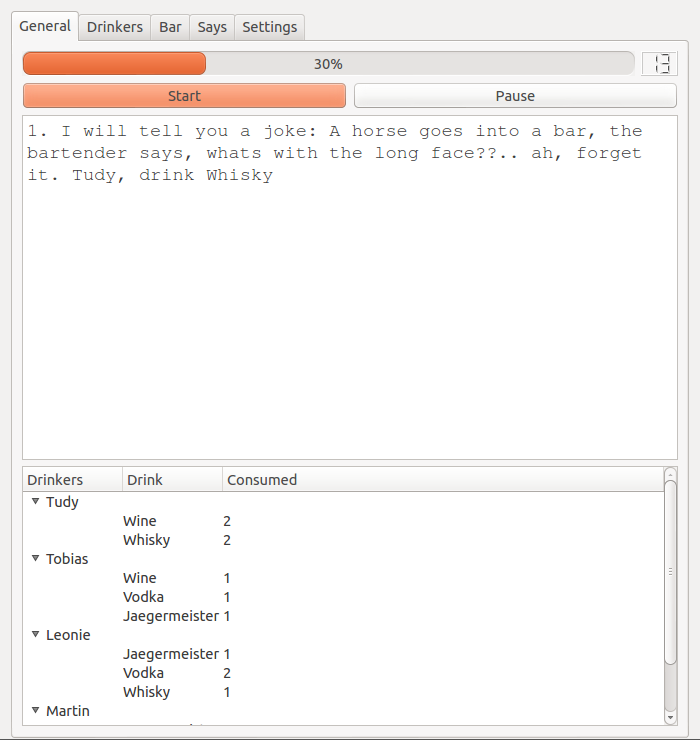
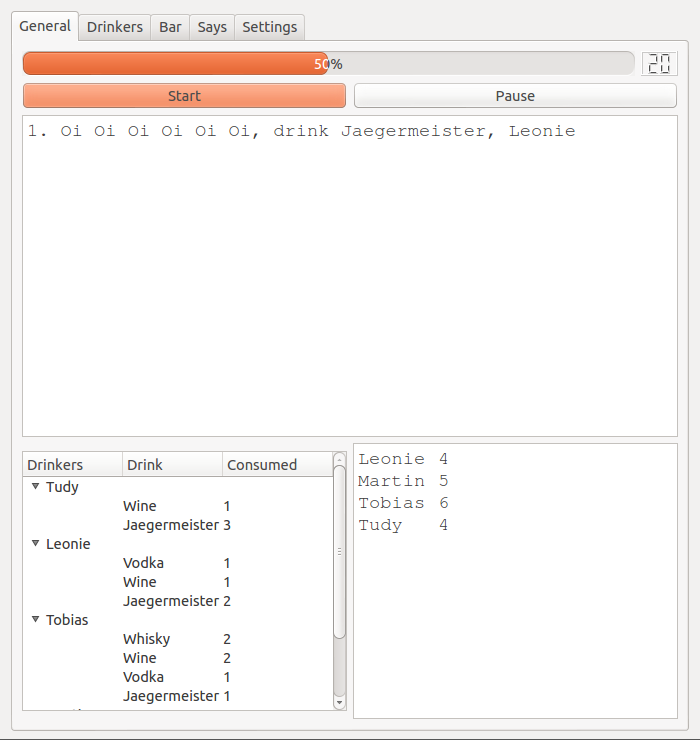
first take at balanced pick..

diff --git a/src/pyDrinkinbot.py b/src/pyDrinkinbot.py
@@ -18,6 +18,7 @@ def botAction(playTab, drinkers, bar, settings, says):
         sayStack += [doOnce(playTab, drinkers, bar, settings, says)]
 
     sayStack += [ "Drink drink. Drink drink." ]
+
     if not( settings.quiet() ):
         say(settings.fadeCommand(), ". ".join(sayStack) )
 
@@ -29,15 +30,25 @@ def doOnce(playTab, drinkers, bar, settings, says):
     sentence = choice(says.contents())
 
     drink = choice(bar.contents())
-    name = choice(drinkers.contents())
+    name = choose(history, drinkers.contents())
     substSentence = substitute(sentence, name, drink )
 
     if requiresAction(sentence):
+        addHistory(history, playTab.gameRound(), name, drink)
         addRecord(record, name, drink)
         playTab.updateRecord(record)
 
     playTab.sayMore(substSentence)
     return substSentence
+
+
+def say(fc, sentence):
+    system("(" + fc + "; echo \"" + sentence + "\" | festival --tts; " + fc + ") & ")
+
+
+def choose(hist, drinkers):
+    return chooseFromHist(hist, drinkers, 3)
+
 
 def requiresAction(sentence):
     return "NAME" in sentence and "DRINK" in sentence
@@ -53,6 +64,7 @@ record = {}
 #            'Martin':[("Wine",2), ("Vodka",3)],
 #            'Leonie':[("Beer",4)],
 #            }  
+
 def addRecord(record, name, drink):
     if not(name in record.keys()):
         record[name] = [(drink, 1)]
@@ -63,8 +75,50 @@ def addRecord(record, name, drink):
         record[name].remove(ele)
         record[name].append((ele[0], ele[1]+1))
 
-def say(fc, sentence):
-    system("(" + fc + "; echo \"" + sentence + "\" | festival --tts; " + fc + ") & ")
+
+def chooseFromHist(hist,drinkers,n):
+    truncHist = [(name, weightedDrinksInLastRounds(hist,name,n)) for name in drinkers]
+    weightedSum = sum([x[1] for x in truncHist])
+    picked = choice(range(0,weightedSum+1))
+
+    i = 0
+    tmp = truncHist[i][1]
+
+    while (picked > tmp and i < (len(drinkers)-1)):
+        i += 1
+        tmp = tmp + truncHist[i][1]
+
+    return truncHist[i][0]
+
+def weightedDrinksInLastRounds(hist, name, n):
+    if len(hist.keys()) == 0: maxRound = 0
+    else: maxRound = max(hist.keys())
+    def weight(x): #x is the round the drinking happened
+        return (x - (maxRound - n))
+    maxSum = 3 * sum ([weight(x) for x in range(maxRound - n +1,maxRound+1)])
+    return maxSum - sum([ weight(x) * len(hist[x][name]) for x in hist.keys() 
+                                if x > (maxRound - n) 
+                                if name in hist[x].keys()])
+history = {}
+
+def addHistory(history, rnd, name, drink):
+    if not rnd in history.keys():
+        history[rnd] = {name:[drink]}
+    elif not name in history[rnd].keys():
+        history[rnd][name] = [drink]
+    else:
+        history[rnd][name].append(drink)
+
+
+#    addHistory(history, 1, "Leonie", "Vodka")
+#    addHistory(history, 1, "Chris", "Beer")
+#    addHistory(history, 1, "Chris", "Beer")
+#    addHistory(history, 2, "Leonie", "Vodka")
+#    addHistory(history, 2, "Chris", "Beer")
+#    print history
+# prints
+#    {1: {'Chris': ['Beer', 'Beer'], 'Leonie': ['Vodka']}, 
+#     2: {'Chris': ['Beer'], 'Leonie': ['Vodka']}}
 
 
 

diff --git a/src/PlayTab.py b/src/PlayTab.py
@@ -34,18 +34,18 @@ class PlayTab(QtGui.QWidget):
         self.data_to_tree(root, record)
         for i in range(0,int(root.childCount())):
             self.tree.expandItem(root.child(i))
+        self.updateTotals(record)
 
-    def setupEditor(self):
-        font = QtGui.QFont()
-        font.setFamily("Courier")
-        font.setFixedPitch(True)
-        font.setPointSize(14)
-        editor = QtGui.QTextEdit()
-        editor.acceptRichText = False
-        editor.setFont(font)
-        editor.setFixedHeight(23*15)
-        return editor
-    
+    def updateTotals(self, record):
+        s = ""
+        for name in sorted(self.drinkers.contents()):
+            s += name + "\t" + self.totalFromRec(record, name) + "\n"
+        self.totals.setPlainText(s)
+
+    def totalFromRec(self,record,name):
+        if not name in record.keys(): return str(0)
+        return str(sum( [x[1] for x in record[name]]))
+
 
     sayCounter = 1
 
@@ -59,6 +59,7 @@ class PlayTab(QtGui.QWidget):
 
     def say(self, txt):
         self.sayLabel.setPlainText(txt)
+
 
     def tick(self):
         self.digit.display(self.digit.intValue() + 1)
@@ -101,10 +102,16 @@ class PlayTab(QtGui.QWidget):
         startButton = QtGui.QPushButton(self.tr("Start"))
         pauseButton = QtGui.QPushButton(self.tr("Pause"))
 
-        self.sayLabel = self.setupEditor()
+        self.sayLabel = self.setupEditor(14)
+
+        self.totals = self.setupEditor(12)
         self.tree = QtGui.QTreeWidget()
         self.tree.setFixedHeight(20*13)
         self.tree.setHeaderLabels(["Drinkers", "Drink", "Consumed"])
+
+        statsLayout = QtGui.QHBoxLayout()
+        statsLayout.addWidget(self.tree)
+        statsLayout.addWidget(self.totals)
 
         self.timer = QtGui.QProgressBar()
         self.digit = QtGui.QLCDNumber(2)
@@ -124,8 +131,17 @@ class PlayTab(QtGui.QWidget):
         mainLayout.addLayout(timerLayout)
         mainLayout.addLayout(buttonLayout)
         mainLayout.addWidget(self.sayLabel)
-        mainLayout.addWidget(self.tree)
+        mainLayout.addLayout(statsLayout)
         mainLayout.addStretch(1)
         self.setLayout(mainLayout)
 
-
+    def setupEditor(self, lines):
+        font = QtGui.QFont()
+        font.setFamily("Courier")
+        font.setFixedPitch(True)
+        font.setPointSize(14)
+        editor = QtGui.QTextEdit()
+        editor.acceptRichText = False
+        editor.setFont(font)
+        editor.setFixedHeight(23*lines)
+        return editor

diff --git a/src/chooseTest.py b/src/chooseTest.py
@@ -1,0 +1,54 @@
+from random import choice
+def foo(hist, drinkers, n):
+    return [(name, weightedDrinksInLastRounds(hist,name,n)) for name in drinkers]
+
+def choose(hist,drinkers,n):
+    truncHist = [(name, weightedDrinksInLastRounds(hist,name,n)) for name in drinkers]
+    weightedSum = sum([x[1] for x in truncHist])
+    picked = choice(range(0,weightedSum+1))
+
+    i = 0
+    tmp = truncHist[i][1]
+
+    while (picked > tmp and i < (len(drinkers)-1)):
+        i += 1
+        tmp = tmp + truncHist[i][1]
+
+    return truncHist[i][0]
+
+def weightedDrinksInLastRounds(hist, name, n):
+    maxRound = max(hist.keys())
+    def weight(x): #x is the round the drinking happened
+        return (x - (maxRound - n))
+    maxSum = 3 * sum ([weight(x) for x in range(maxRound - n +1,maxRound+1)])
+    return maxSum - sum([ weight(x) * len(hist[x][name]) for x in hist.keys() 
+                                if x > (maxRound - n) 
+                                if name in hist[x].keys()])
+
+history = {}
+
+def addHistory(history, rnd, name, drink):
+    if not rnd in history.keys():
+        history[rnd] = {name:[drink]}
+    elif not name in history[rnd].keys():
+        history[rnd][name] = [drink]
+    else:
+        history[rnd][name].append(drink)
+
+def main():
+    addHistory(history, 1, "Leonie", "Vodka")
+    addHistory(history, 1, "Chris", "Beer")
+    addHistory(history, 1, "Chris", "Beer")
+    addHistory(history, 2, "Leonie", "Vodka")
+    addHistory(history, 2, "Chris", "Beer")
+    h = {}
+    for x in range(0,100000):
+        n = choose(history, ["Leonie", "Chris", "Tudy"], 2)
+        if not n in h.keys(): h[n]=1
+        else: h[n]+=1
+
+    print h
+    i =  foo(history, ["Leonie", "Chris", "Tudy"], 2)
+    print i
+
+main()
